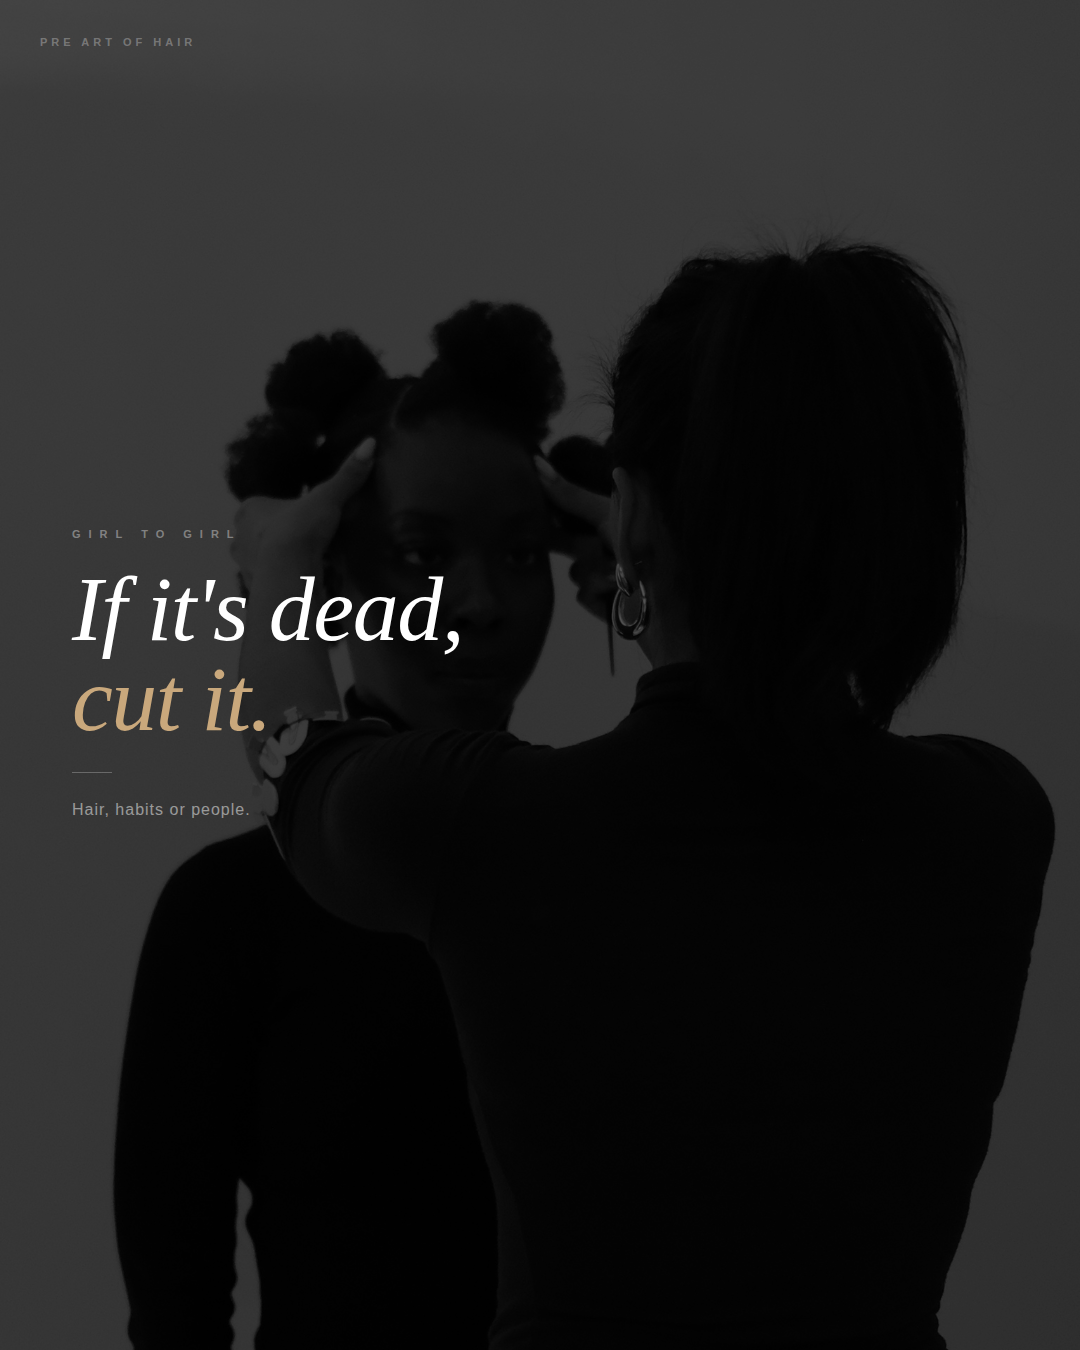
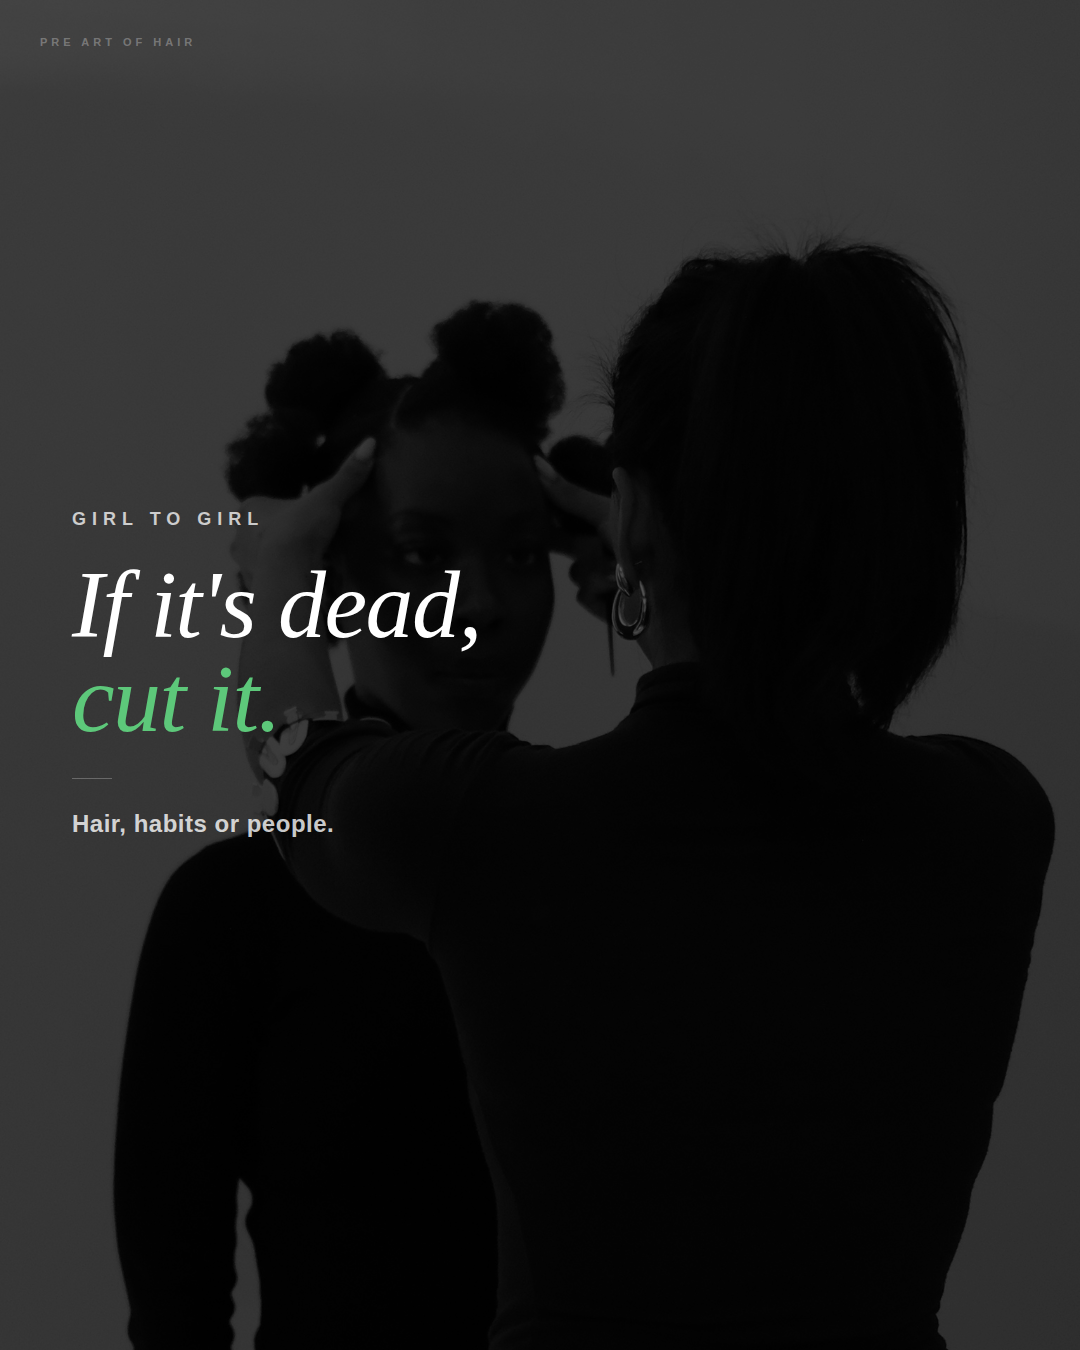
Update salon quote typography: bigger Girl to Girl, green cut it, larger sub text
Claude-Session: https://claude.ai/code/session_01BaC8m9wAmbtKccXQSCmnYc

Changed region(s): [[0.0611, 0.3733, 0.4583, 0.56], [0.0611, 0.5911, 0.3056, 0.6222]]

diff --git a/salon-quote.html b/salon-quote.html
@@ -46,29 +46,29 @@
     }
     .eyebrow {
       font-family: 'Barlow', sans-serif;
-      font-size: 11px; font-weight: 600;
-      letter-spacing: 8px; text-transform: uppercase;
-      color: rgba(255,255,255,0.38);
-      margin-bottom: 24px;
+      font-size: 18px; font-weight: 700;
+      letter-spacing: 6px; text-transform: uppercase;
+      color: rgba(255,255,255,0.75);
+      margin-bottom: 28px;
     }
     .quote {
       font-family: 'Cormorant Garamond', serif;
       font-style: italic; font-weight: 300;
-      font-size: 92px; color: #fff;
+      font-size: 96px; color: #fff;
       line-height: 0.98; letter-spacing: -1.5px;
-      margin-bottom: 28px;
+      margin-bottom: 32px;
     }
-    .quote .c { color: #C9A87C; }
+    .quote .c { color: #5DC87A; }
     .rule {
       width: 40px; height: 1px;
       background: rgba(255,255,255,0.25);
-      margin-bottom: 24px;
+      margin-bottom: 28px;
     }
     .sub {
       font-family: 'Barlow', sans-serif;
-      font-size: 16px; font-weight: 400;
-      color: rgba(255,255,255,0.50);
-      letter-spacing: 1px; line-height: 1.6;
+      font-size: 24px; font-weight: 600;
+      color: rgba(255,255,255,0.80);
+      letter-spacing: 0.5px; line-height: 1.4;
     }
   </style>
 </head>
